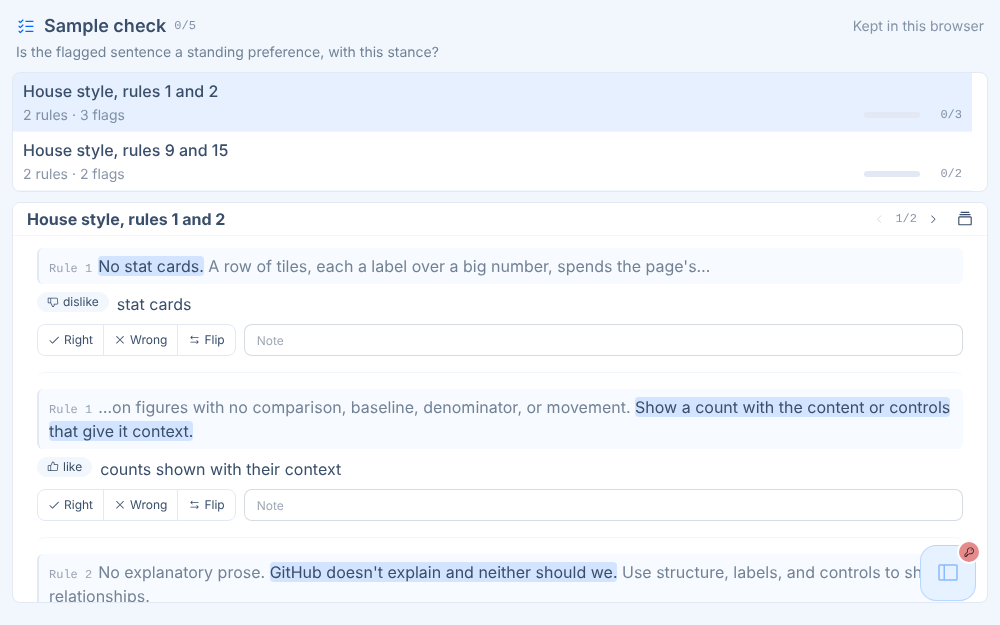
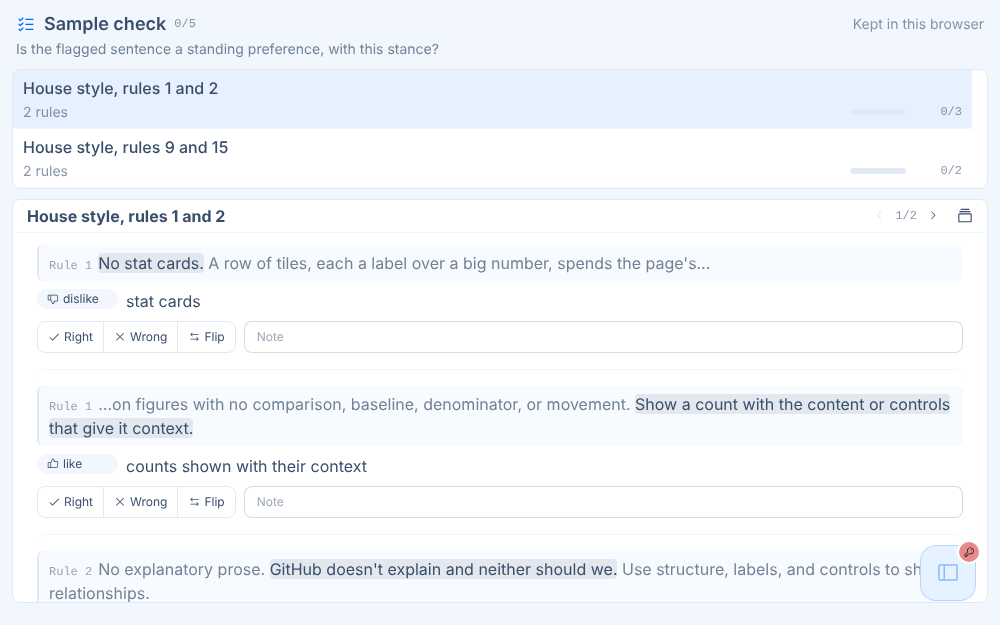
Check form: neutral open marks, aligned outputs, the question in full
The house-style critic's second and third passes: an open passage is marked
in a neutral tint, so blue means only selected or lit (rule 9); an output's
tag and label take one width, so its text starts at one edge (rule 15); a
note reads at the output's size (rule 7); the question and the title wrap
rather than truncate; a row's meta leaves the count to its bar (rule 17).
The contract's opening is split into one claim a sentence, per the
peeves-critic.

Claude-Session: https://claude.ai/code/session_01Ug8CXB6PirpgRbETf2yWnc

diff --git a/pages/check.html b/pages/check.html
@@ -45,7 +45,7 @@
   // might have read them.
   const SAMPLE = (() => {
     const run = (id, title, blocks, flags) => ({
-      id, title, meta: `${blocks.length} rules · ${flags.length} flags`,
+      id, title, meta: `${blocks.length} rules`,
       source: { blocks: blocks.map(([bid, label, text]) => ({ id: bid, label, text })) },
       outputs: flags.map(([oid, bid, quote, tag, text]) => {
         const t = blocks.find(b => b[0] === bid)[2], s = t.indexOf(quote);
@@ -87,7 +87,7 @@
     info: { btn: 'btn-info', mark: 'bg-info/25', bar: 'bg-info' },
     neutral: { btn: 'btn-neutral', mark: 'bg-base-content/20', bar: 'bg-base-content/50' },
   };
-  const OPEN_MARK = 'bg-primary/15';
+  const OPEN_MARK = 'bg-base-content/10';
   const MARKS = [OPEN_MARK, ...Object.values(TONE).map(t => t.mark)];
   const LIT_MARK = ['ring-2', 'ring-primary'];
   const LIT_ITEM = ['bg-primary/10'];
@@ -112,6 +112,9 @@
     }
     p.verdictOf = Object.fromEntries((p.verdicts || []).map(v => [v.verdict, v]));
     p.tagOf = Object.fromEntries((p.tags || []).map(t => [t.tag, t]));
+    // Widths that keep every output's text starting at one edge (rule 15).
+    p.tagCh = Math.max(0, ...p.runs.flatMap(r => r.outputs.map(o => (p.tagOf[o.tag]?.label || o.tag || '').length)));
+    for (const r of p.runs) r.labelCh = Math.max(0, ...r.outputs.map(o => (r.blockOf[o.anchor?.block]?.label || '').length));
     return p;
   }
 
@@ -180,7 +183,7 @@
     const segs = (P.verdicts || []).map(v => n[v.verdict]
       ? `<span class="${tone(v.verdict).bar}" style="width:${(n[v.verdict] / total * 100).toFixed(1)}%"></span>` : '').join('');
     return `<span class="flex h-1.5 w-14 shrink-0 overflow-hidden rounded-full bg-base-300">${segs}</span>`
-      + `<span class="min-w-[5ch] shrink-0 text-right font-mono text-xs tabular-nums text-base-content/60">${doneOf(n)}/${r.outputs.length}</span>`;
+      + `<span class="min-w-[7ch] shrink-0 text-right font-mono text-xs tabular-nums text-base-content/60">${doneOf(n)}/${r.outputs.length}</span>`;
   }
 
   function rowHTML(r) {
@@ -193,7 +196,7 @@
   function tagHTML(o) {
     if (!o.tag) return '';
     const t = P.tagOf[o.tag] || { label: o.tag };
-    return `<span class="badge badge-sm badge-ghost shrink-0 gap-1">${t.icon ? `<i class="ph ${esc(t.icon)}"></i>` : ''}${esc(t.label || o.tag)}</span>`;
+    return `<span class="badge badge-sm badge-ghost shrink-0 justify-start gap-1" style="min-width:calc(${P.tagCh}ch + 1.75rem)">${t.icon ? `<i class="ph ${esc(t.icon)}"></i>` : ''}${esc(t.label || o.tag)}</span>`;
   }
 
   function controls(r, o) {
@@ -246,7 +249,7 @@
       <section data-item="${esc(keyOf(r.id, o.id))}" data-out="${esc(o.id)}" class="flex flex-col gap-2 rounded-lg ${i ? 'border-t border-base-200 pt-4' : ''}">
         ${line(r, o)}
         <div class="flex items-start gap-2">${tagHTML(o)}<span class="min-w-0">${esc(o.text)}</span></div>
-        ${o.note ? `<p class="text-sm text-base-content/60">${esc(o.note)}</p>` : ''}
+        ${o.note ? `<p class="text-base-content/70">${esc(o.note)}</p>` : ''}
         ${controls(r, o)}
       </section>`).join('')}</div>`;
   }
@@ -263,14 +266,14 @@
     const blocks = r.source.blocks.map(b => `
       <section data-block="${esc(b.id)}" class="flex flex-col gap-1 rounded-md py-2">
         <h3 class="font-mono text-xs text-base-content/50">${esc(b.label || b.id)}</h3>
-        <p class="text-xl leading-8 [overflow-wrap:anywhere]">${marked(r, b)}</p>
+        <p class="whitespace-pre-wrap text-xl leading-8 [overflow-wrap:anywhere]">${marked(r, b)}</p>
       </section>`).join('');
     const items = r.outputs.map((o, i) => `
       <article data-item="${esc(keyOf(r.id, o.id))}" data-out="${esc(o.id)}" class="flex cursor-pointer flex-col gap-2 rounded-lg p-2 ${i ? 'mt-2' : ''}">
         <div class="flex items-start gap-2 text-xl leading-8">
-          <span class="shrink-0 font-mono text-xs leading-8 text-base-content/50">${esc(r.blockOf[o.anchor?.block]?.label || '')}</span>
+          <span class="shrink-0 font-mono text-xs leading-8 text-base-content/50" style="min-width:${r.labelCh}ch">${esc(r.blockOf[o.anchor?.block]?.label || '')}</span>
           ${tagHTML(o).replace('shrink-0', 'mt-1.5 shrink-0')}<span class="min-w-0">${esc(o.text)}</span></div>
-        ${o.note ? `<p class="text-sm text-base-content/60">${esc(o.note)}</p>` : ''}
+        ${o.note ? `<p class="text-xl leading-8 text-base-content/70">${esc(o.note)}</p>` : ''}
         ${controls(r, o)}
       </article>`).join('');
     return `<div data-pair="${esc(r.id)}" data-scope="${esc(r.id)}" class="grid h-full min-h-0 w-full min-w-0">
@@ -409,14 +412,14 @@
     head.innerHTML = `
       <div class="flex min-w-0 flex-1 items-center gap-2">
         <i class="ph ph-list-checks shrink-0 text-xl text-primary"></i>
-        <h1 class="min-w-0 truncate text-lg font-semibold">${esc(P.title || 'Check')}</h1>
+        <h1 class="line-clamp-2 min-w-0 text-lg leading-snug font-semibold" data-title-tip="${esc(P.title || 'Check')}" data-title-tip-bare>${esc(P.title || 'Check')}</h1>
         <span class="min-w-[7ch] shrink-0 font-mono text-xs tabular-nums text-base-content/60">${done}/${total}</span>
       </div>
       <div class="flex min-w-0 items-center gap-2">${status}
         ${S.target ? `<button type="button" id="save" class="btn btn-sm btn-primary min-w-[6.5rem] shrink-0 gap-1" ${n && !S.saving ? '' : 'disabled'}>
           <i class="ph ph-floppy-disk"></i><span>${S.saving ? 'Saving' : n ? 'Save ' + n : 'Save'}</span></button>` : ''}
       </div>
-      ${P.question ? `<p class="w-full truncate text-sm text-base-content/70" data-title-tip="${esc(P.question)}" data-title-tip-bare>${esc(P.question)}</p>` : ''}`;
+      ${P.question ? `<p class="w-full text-sm text-base-content/70">${esc(P.question)}</p>` : ''}`;
   }
 
   // ── mount ───────────────────────────────────────────────────────────────

diff --git a/docs/envelopes/check.md b/docs/envelopes/check.md
@@ -1,6 +1,10 @@
 # Check: the envelope contract
 
-A **check** asks the owner to judge, item by item, what an AI process made from some input: each output item rests on a passage of the input, and takes one verdict from a declared set and an optional note. `check/1` carries the input and the output side by side so a page can draw them together, and names the file the verdicts are appended to, so the session or run that asked reads them back. 🔷 [pages/check.html](https://mehrlander.github.io/web-tools/pages/check.html) renders it. The first producer is home's `projects/text/runs/2026-11-06-prompt-sentiment/src/flag_check.py`, over the standing-preference flags of the session-topics daemon.
+A **check** asks the owner to judge what an AI process made from some input, one output at a time. Each output rests on a passage of the input. The owner gives it one verdict from a declared set and may add a note.
+
+A `check/1` file holds the input and the outputs. 🔷 [pages/check.html](https://mehrlander.github.io/web-tools/pages/check.html) draws each output beside its passage and appends the owner's verdicts to an answers file, which the session that made the check reads.
+
+The first producer is [`flag_check.py`](https://github.com/mehrlander/home/blob/main/projects/text/runs/2026-11-06-prompt-sentiment/src/flag_check.py) in home. Its outputs are the sentences of the owner's messages that a model flagged as preferences.
 
 ## Delivery
 
@@ -8,8 +12,8 @@ The page reads `#gz=` before `?src=`, and shows its embedded sample when it has 
 
 | channel | form | use when |
 | --- | --- | --- |
-| `?src=<spec>` or `#src=<spec>` | `owner/repo[@ref]:path`, read through the viewer's GitHub token | a committed payload, private ones included; verdicts are saved beside it, on the same ref |
-| `#gz=<base64url>` | a gzipped `check/1` payload in the fragment | a small payload with no commit; it saves only when `answers` is a full address |
+| `?src=<spec>` or `#src=<spec>` | `owner/repo[@ref]:path`, read through the viewer's GitHub token | a committed payload, private ones included |
+| `#gz=<base64url>` | a gzipped `check/1` payload in the fragment | a small payload with no commit; the page saves verdicts only when `answers` is a full address |
 
 ## The file
 
@@ -17,25 +21,27 @@ The page reads `#gz=` before `?src=`, and shows its embedded sample when it has 
 | --- | --- |
 | `kind` | `check/1` |
 | `title` | What is being checked |
-| `question` | What a verdict answers, such as *is the flagged sentence a standing preference, with this stance?* |
-| `verdicts` | In order, each with `verdict` (the value written), `label` (the button) and `gloss`, and optionally a Phosphor `icon` and a `tone`: `success`, `error`, `warning`, `info` or `neutral` |
-| `tags` | Optional: the values an output's `tag` takes, each with `tag`, `label` and optionally a Phosphor `icon` |
-| `answers` | Optional: where verdicts are appended. A repo path is read in the payload's repository at the payload's ref; an `owner/repo[@ref]:path` address names its own. Default: the payload's path with `.json` replaced by `.answers.jsonl` |
+| `question` | What a verdict answers, such as *is this flag right?* |
+| `verdicts` | In order, each with `verdict` (the value written), `label` (the button) and `gloss`, and optionally an `icon` (a Phosphor class such as `ph-check`) and a `tone`, the colour of the chosen button and its marks: `success`, `error`, `warning`, `info` or `neutral` |
+| `tags` | Optional: the values an output's `tag` takes, each with `tag`, `label` and optionally an `icon` |
+| `answers` | Optional: the answers file. A repo path is read in the payload's repository at the payload's ref; an `owner/repo[@ref]:path` address names its own. Default: the payload's path with `.json` replaced by `.answers.jsonl` |
 | `made` | Optional: `by` (the producer's address) and `from` (the addresses it read) |
 | `runs` | In order |
 
-A **run** is one input and what the process made from it: `id` (unique in the payload), `title`, `meta` (one short line, such as a date and counts), `source` and `outputs`. `source` holds `blocks`, each with `id`, `label` and `text`, and optionally `address`, where the input lives. An **output** has `id` (unique in its run), `text`, and optionally `tag`, `note` (the process's own remark) and `anchor`: `{block, start, end}`, offsets into that block's text in code points with `end` exclusive, or `{block}` alone when no span applies.
+A **run** is one input and the outputs made from it. It has an `id` unique in the payload, a `title`, a `meta` line (a date and a count, say), a `source` and its `outputs`. `source` holds `blocks`, each with `id`, `label` and `text`, and optionally an `address` where the input lives.
+
+An **output** has an `id` unique in its run and a `text`. It may have a `tag`, a `note` (the process's own remark) and an `anchor`: `{block, start, end}`, offsets into that block's text in code points with `end` exclusive, or `{block}` alone when no span applies.
 
 ## Answers
 
-Each save appends one JSON line per item whose verdict or note changed, in one commit:
+Each save appends one JSON line per output whose verdict or note changed, in one commit:
 
 | Field | Holds |
 | --- | --- |
 | `at` | When the verdict was given, ISO 8601 |
-| `run`, `output` | The item's ids |
+| `run`, `output` | The output's ids |
 | `verdict` | One of `verdicts`, or `null` for a verdict withdrawn |
 | `note` | The owner's note, `""` for none |
 | `by` | The GitHub login that saved it |
 
-Lines are never edited. The latest line for an item is its answer, which is how the page restores verdicts on load and how a reader should count them. The write goes through `UserCallForm.postAnswer`, the path a user call's answers take.
+Lines are not edited. An output's latest line holds its verdict: the page restores verdicts that way on load, and a session reading the file counts them the same way. The write is `postAnswer` in [`user-call-form.js`](../../lib/alpineComponents/user-call-form.js).
